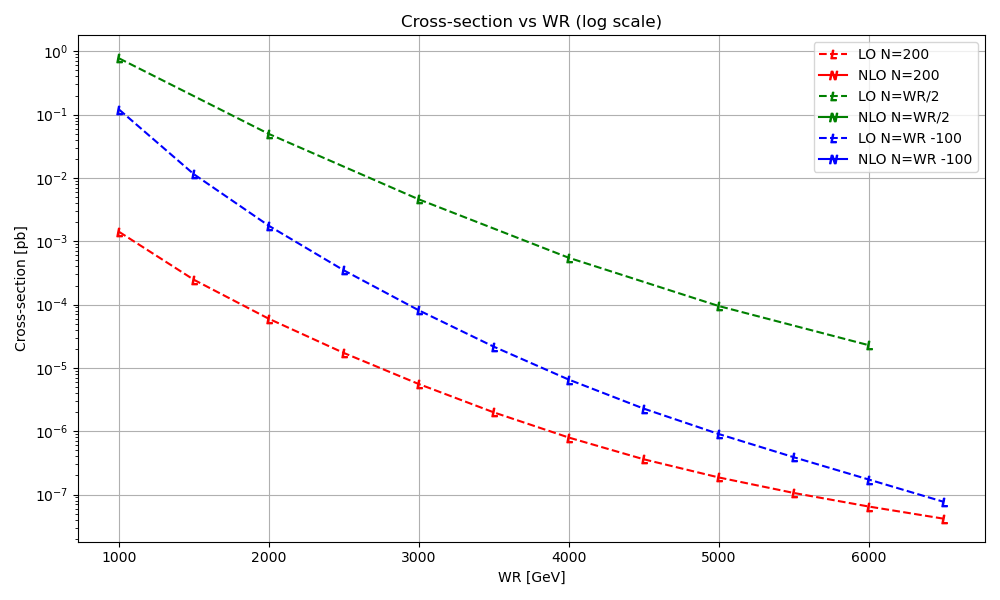
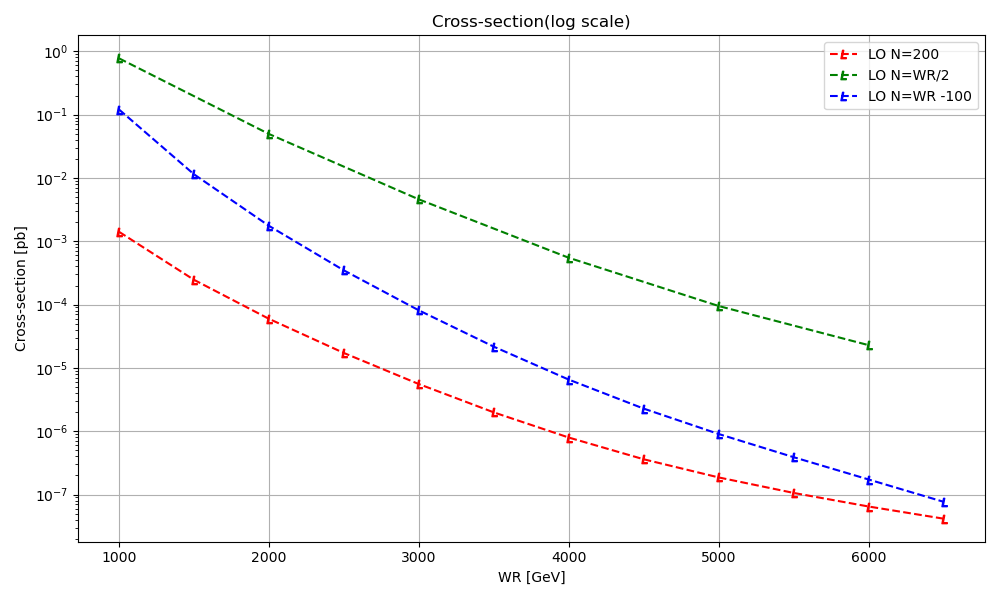
0424 upd

Changed region(s): [[0.806, 0.06, 0.992, 0.3], [0.403, 0.03, 0.651, 0.06]]

diff --git a/analysis/python/20000event_kfactor_xsec_plot.py b/analysis/python/20000event_kfactor_xsec_plot.py
@@ -51,7 +51,7 @@ for wr in sorted(df['WR'].unique()):
             nlo = row['NLO_crosssection']
             if lo and nlo and lo != 0:
                 x_vals[n_type].append(wr)
-                kfactor_lines[n_type].append(nlo / lo)
+                #kfactor_lines[n_type].append(nlo / lo)
 
             if lo:
                 lo_lines[n_type].append(lo)
@@ -124,10 +124,10 @@ plt.figure(figsize=(10, 6))
 for label, color in zip([200, 'WR/2', 'WR -100'], ['red', 'green', 'blue']):
     if x_vals[label]:
         plt.plot(x_vals[label], lo_lines[label], label=f'LO N={label}', marker='$L$', linestyle='--', color=color)
-        plt.plot(x_vals[label], nlo_lines[label], label=f'NLO N={label}', marker='$N$', linestyle='-', color=color)
+        #plt.plot(x_vals[label], nlo_lines[label], label=f'NLO N={label}', marker='$N$', linestyle='-', color=color)
 plt.xlabel('WR [GeV]')
 plt.ylabel('Cross-section [pb]')
-plt.title('Cross-section vs WR (log scale)')
+plt.title('Cross-section(log scale)')
 plt.yscale('log')
 plt.legend()
 plt.grid(True)
